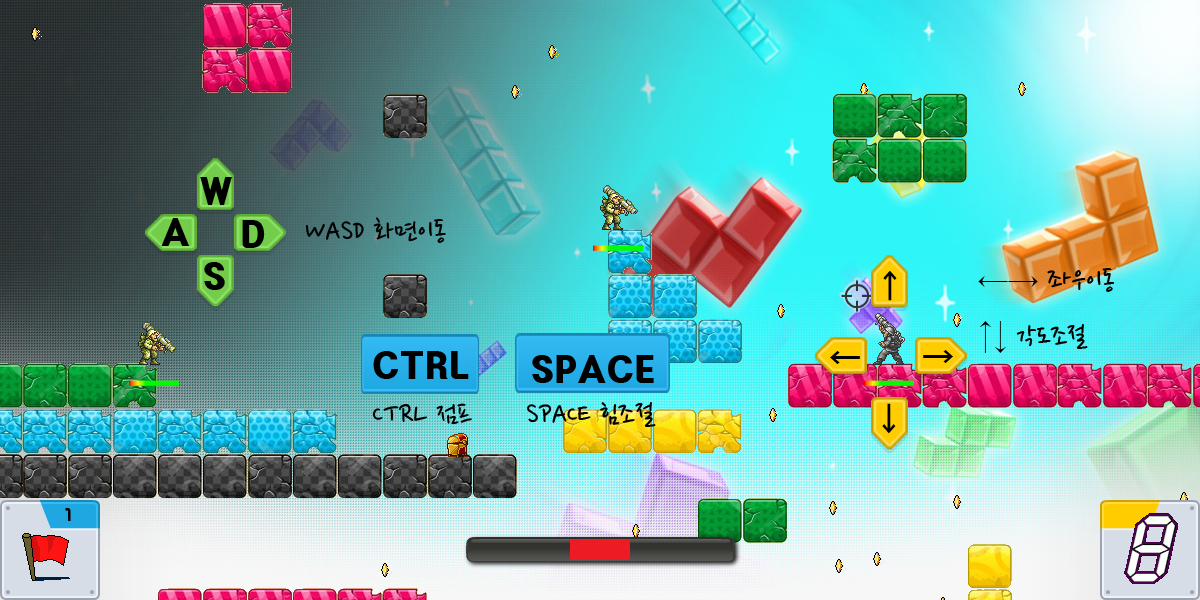
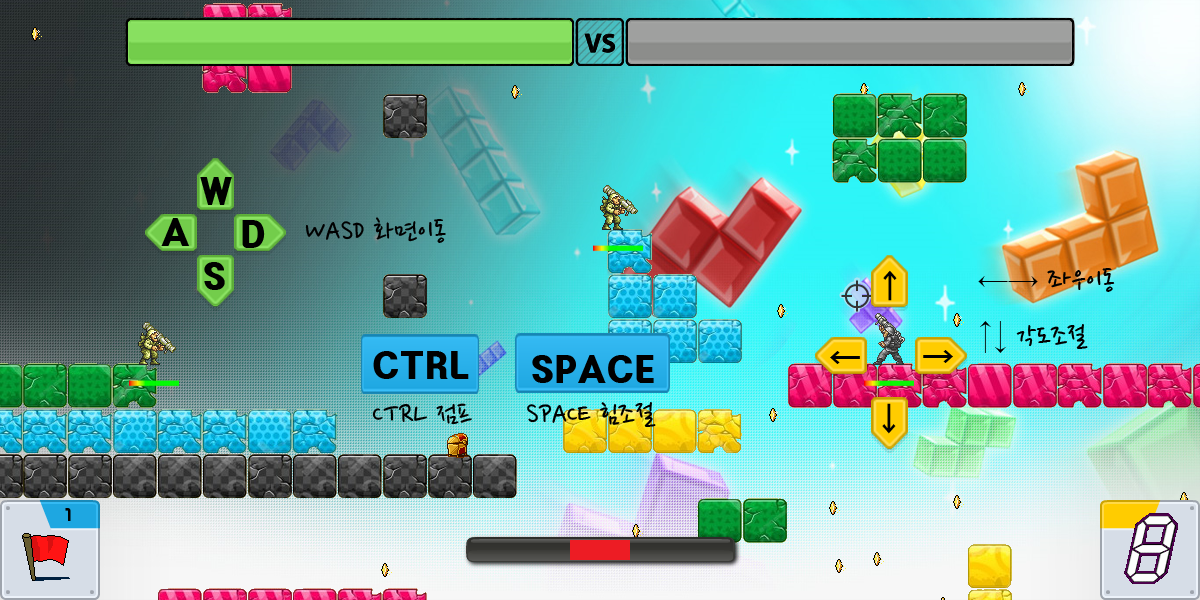
2d

Changed region(s): [[0.0925, 0.03, 0.925, 0.12]]

diff --git a/game_state.py b/game_state.py
@@ -133,6 +133,7 @@ def handle_events(frame_time):
     global right_move
     global top_move
     global bottom_move
+    
     for event in events:
         if event.type == SDL_QUIT:
             game_framework.quit()
@@ -194,7 +195,8 @@ def update(frame_time):
     global scroll_x
     global scroll_y
     global play_time
-
+    total_hp_green = 0
+    total_hp_gray = 0
     #print(play_x,"\t",play_y)
 
     if left_move:
@@ -303,12 +305,14 @@ def update(frame_time):
     for i in item:
         i.update(frame_time)
     for i in team_green:
+        total_hp_green += i.get_hp()
         item_type = collision_soldier_and_item(i,item)
         i.update(frame_time,item_type)
         if i.y < -100:
             Player_turn = SoldierTeam.Gray
             team_green.remove(i)
     for i in team_gray:
+        total_hp_gray += i.get_hp()
         item_type = collision_soldier_and_item(i,item)
         i.update(frame_time,item_type)
         if i.y < -100:
@@ -318,11 +322,16 @@ def update(frame_time):
         i.update(frame_time)
         if i.frame >= 25:
             animation.remove(i)
-    ui.update(frame_time,wind,int(time.clock() - play_time))
+    ui.update(frame_time,wind,int(time.clock() - play_time),total_hp_green,total_hp_gray,squad_num)
+    
 
 def draw(frame_time):
     clear_canvas()
     background.draw()
+    power = 0
+    p_x = 0
+    p_y = 0
+
     for i in coin:
         i.draw(scroll_x,scroll_y)
     for i in block:
@@ -347,16 +356,33 @@ def draw(frame_time):
     for i in animation:
         i.draw(scroll_x,scroll_y)
 
+
+
     if Player_turn == SoldierTeam.Green and len(team_green):
-        ui.draw(int(team_green[0].get_power()),frame_time,team_green[0].x + scroll_x,team_green[0].y + scroll_y + 30)
-        if wind < 0:
-            font.draw(55, 85, '%d' % wind)
-        else:
-            font.draw(65, 85, '%d' % wind)
+        power = team_green[0].get_power()
+        p_x = team_green[0].x
+        p_y = team_green[0].y
+        
     elif Player_turn == SoldierTeam.Gray and len(team_gray):
-        ui.draw(int(team_gray[0].get_power()),frame_time,team_gray[0].x + scroll_x,team_gray[0].y + scroll_y + 30)
-        if wind < 0:
-            font.draw(55, 85, '%d' % wind)
-        else:
-            font.draw(65, 85, '%d' % wind)
+        power = team_gray[0].get_power()
+        p_x = team_gray[0].x
+        p_y = team_gray[0].y
+    ui.draw(int(power),frame_time,p_x + scroll_x,p_y + scroll_y + 30)
+    if wind < 0:
+        font.draw(55, 85, '%d' % wind)
+    else:
+        font.draw(65, 85, '%d' % wind)
+
+    #if Player_turn == SoldierTeam.Green and len(team_green):
+    #    ui.draw(int(team_green[0].get_power()),frame_time,team_green[0].x + scroll_x,team_green[0].y + scroll_y + 30)
+    #    if wind < 0:
+    #        font.draw(55, 85, '%d' % wind)
+    #    else:
+    #        font.draw(65, 85, '%d' % wind)
+    #elif Player_turn == SoldierTeam.Gray and len(team_gray):
+    #    ui.draw(int(team_gray[0].get_power()),frame_time,team_gray[0].x + scroll_x,team_gray[0].y + scroll_y + 30)
+    #    if wind < 0:
+    #        font.draw(55, 85, '%d' % wind)
+    #    else:
+    #        font.draw(65, 85, '%d' % wind)
     update_canvas()

diff --git a/CUI.py b/CUI.py
@@ -8,6 +8,10 @@ class CUI:
     yellowlpanel = None
     bluelpanel = None
     ingame_time = None
+    vs_image = None
+    vs_hp_image = None
+    hp1_image = None
+    hp2_image = None
     TIME_PER_ACTION = 0.5
     ACTION_PER_TIME = 1.0 / TIME_PER_ACTION
     FRAMES_PER_ACTION = 4
@@ -32,10 +36,20 @@ class CUI:
             CUI.bluelpanel = load_image('image//bluePanel.png')
         if CUI.ingame_time == None:
             CUI.ingame_time = load_image('image//imgamenumber.png')
+        if CUI.vs_image == None:
+            CUI.vs_image = load_image('image//vs_image.png')
+        if CUI.vs_hp_image == None:
+            CUI.vs_hp_image = load_image('image//vs_hp.png')
+        if CUI.hp1_image == None:
+            CUI.hp1_image = load_image('image//hp3.png')
+        if CUI.hp2_image == None:
+            CUI.hp2_image = load_image('image//hp4.png')
         self.time10 = 0
         self.time01 = 0
+        self.hp_green_persent = 0
+        self.hp_gray_persent = 0
 
-    def update(self,frame_time,wind,play_time):
+    def update(self,frame_time,wind,play_time,total_hp_green,total_hp_gray,squad_num):
         self.total_frames += CUI.FRAMES_PER_ACTION * CUI.ACTION_PER_TIME * frame_time
         self.flag_frame = int(self.total_frames) % 4
         self.play_frame = int(self.total_frames) % 16
@@ -43,16 +57,25 @@ class CUI:
             self.wind_right = 1
         else:
             self.wind_right = 0
-
+        print(total_hp_green,'\t',total_hp_gray)
         #print(play_time)
-        if play_time <= 15:
+        if play_time <= 15 and total_hp_green > 0 and total_hp_gray > 0:
             self.time01 = (15 - play_time) % 10
             self.time10 = int((15 - play_time) / 10)
-        print(play_time,'\t',self.time01,'\t',self.time10)
+        #print(play_time,'\t',self.time01,'\t',self.time10)
+        self.hp_green_persent = total_hp_green / (squad_num * 49) * 100
+        self.hp_gray_persent = total_hp_gray / (squad_num * 49) * 100
 
     def draw(self,power,frame_time,play_x,play_y):
         self.power_bar_image.draw(600,50)
         self.yellowlpanel.draw(1150,50)
+        self.vs_image.draw(600,550)
+
+        self.hp1_image.clip_draw_to_origin(0,0,int(self.hp_green_persent*4.5),50,125,525)
+        self.hp2_image.clip_draw_to_origin(0,0,int(self.hp_gray_persent*4.5),50,625,525)
+        self.vs_hp_image.draw(350,550)
+        self.vs_hp_image.draw(850,550)
+        
         self.bluelpanel.draw(50,50)
         self.power_gage_image.clip_draw(0,0,power*2,20,600,50)
         self.flag.clip_draw(self.flag_frame * 64,self.wind_right * 64,64,64,50,45)

diff --git a/CSoldier.py b/CSoldier.py
@@ -36,7 +36,7 @@ class Soldier:
         if Soldier.aim_image == None:
             Soldier.aim_image = load_image('image//aim.png')
         if Soldier.hp_image == None:
-            Soldier.hp_image = load_image('image//hpbar1.png')
+            Soldier.hp_image = load_image('image//hpbar.png')
         self.dir = random.randint(Direction.Left,Direction.Right)
         self.state = SoldierState.Idle
         self.STATE = self.SOLDIER_IDLE
